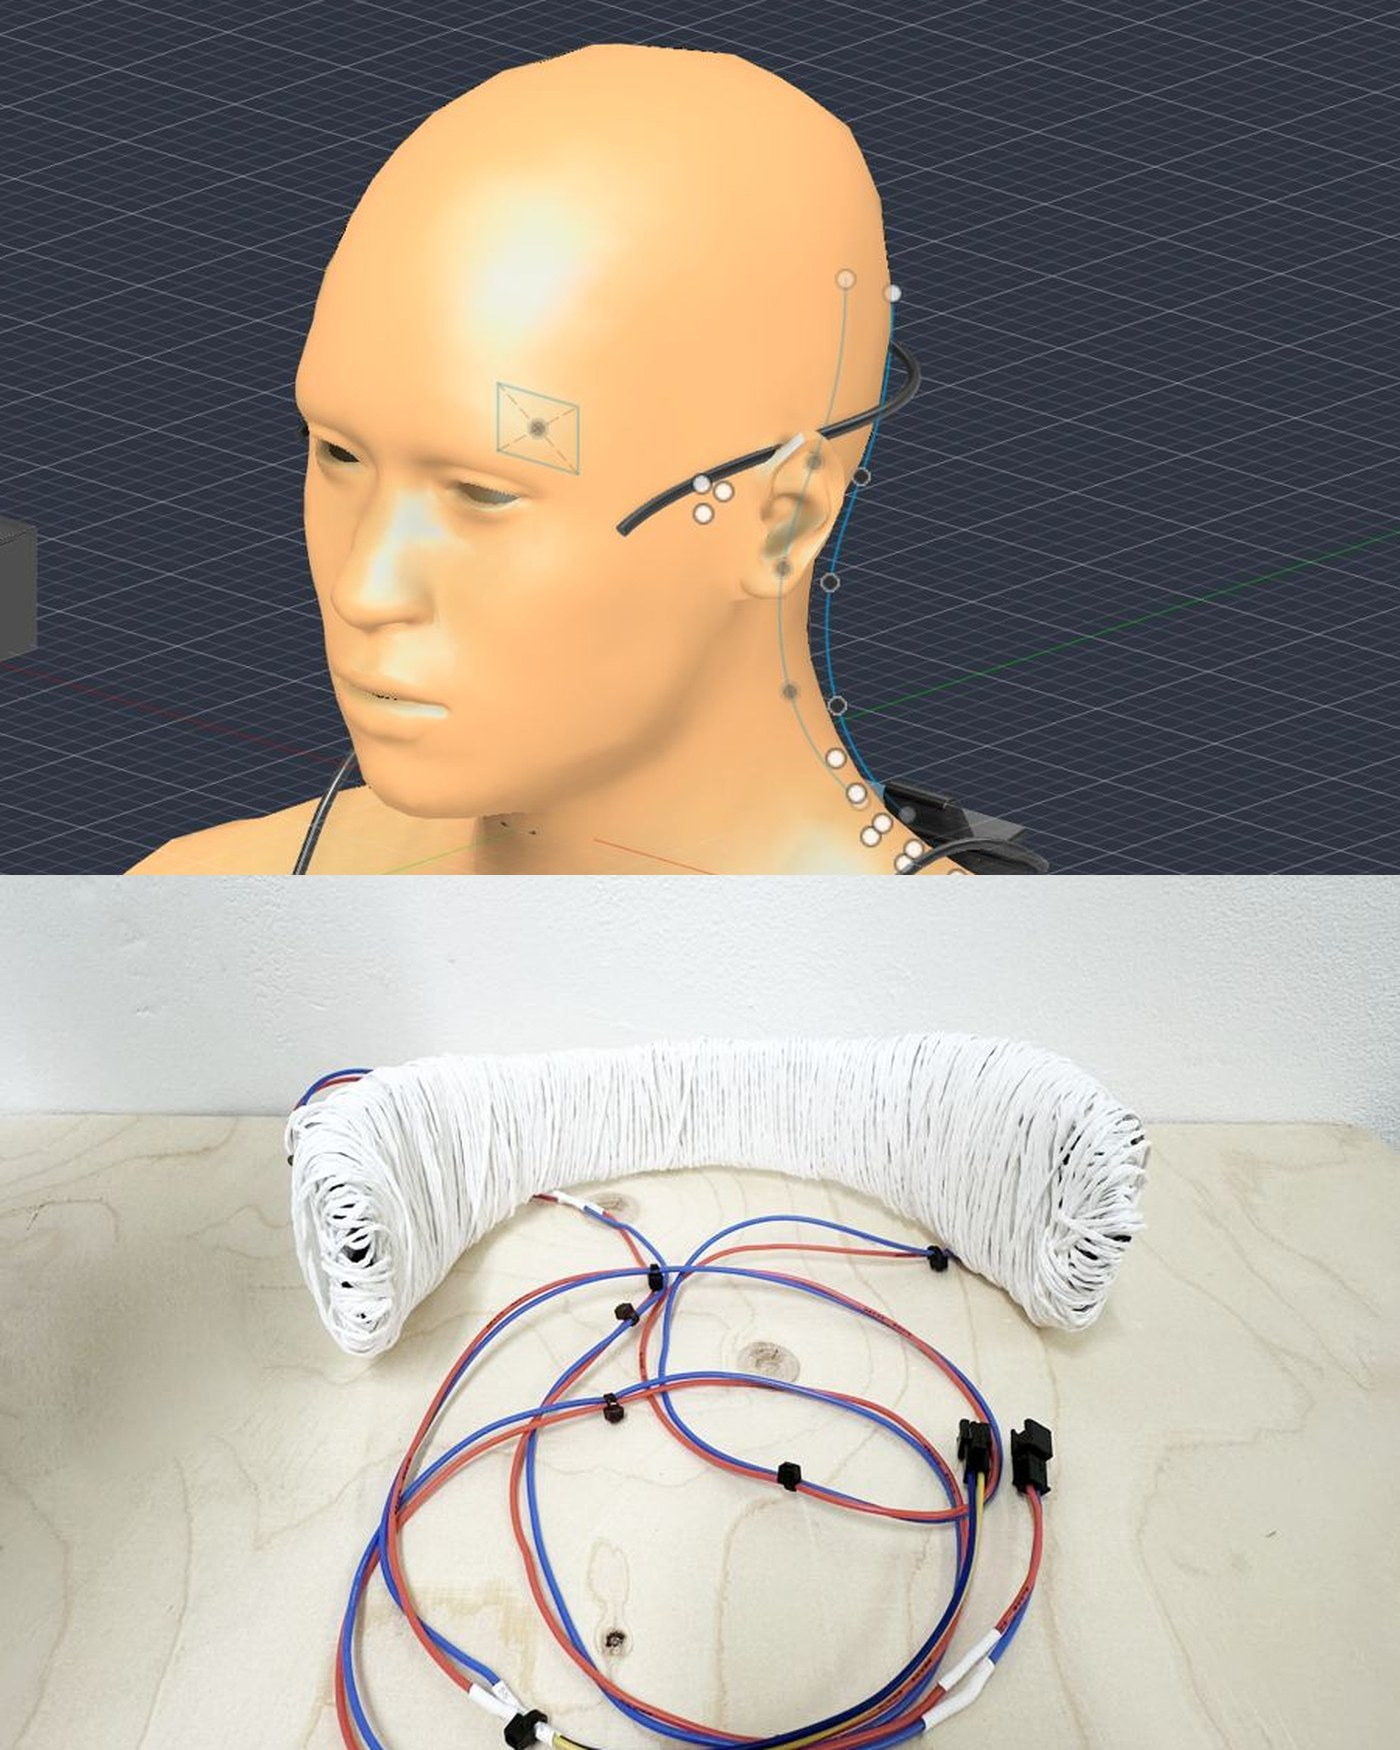
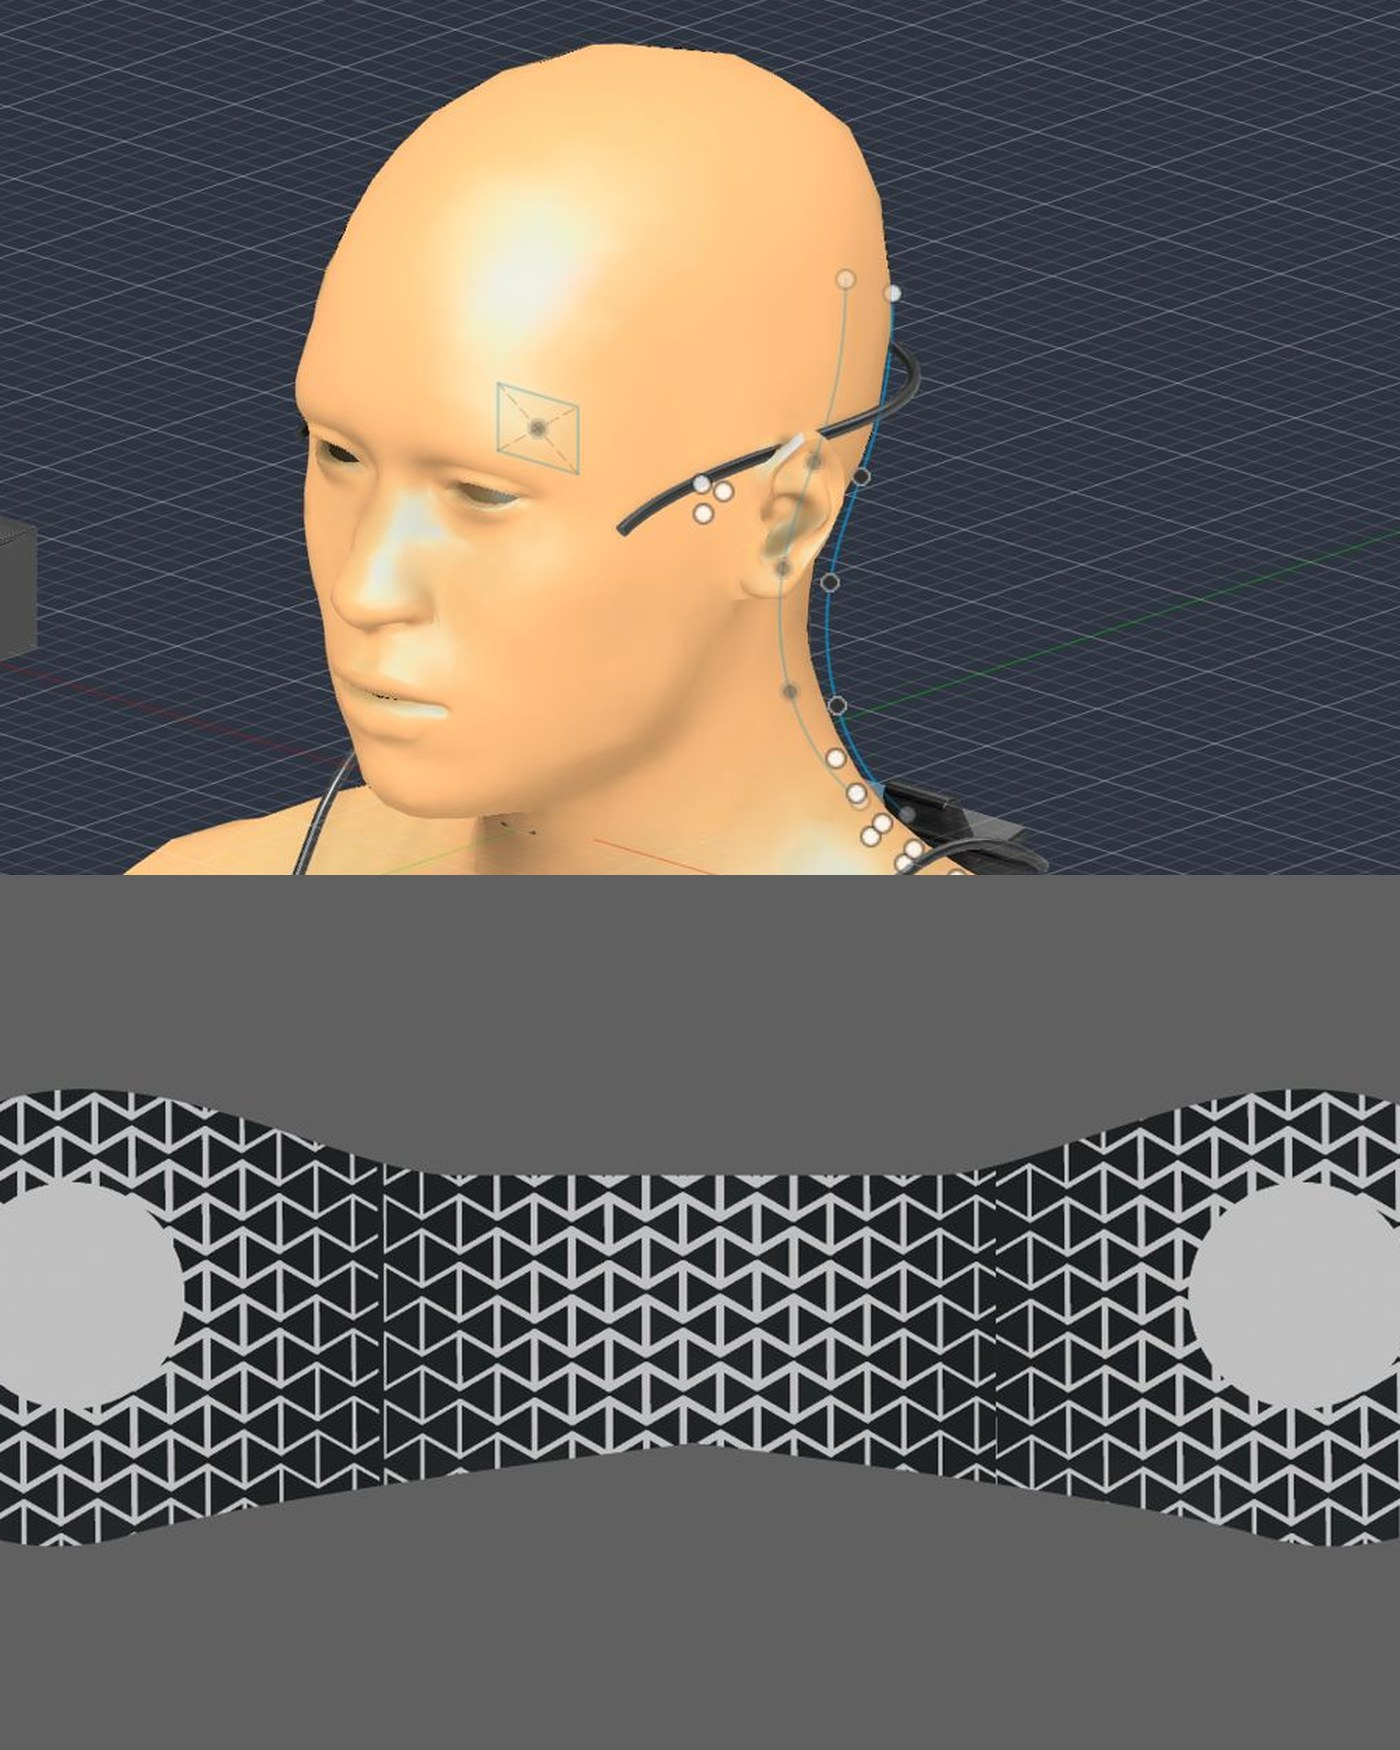
Making figure: collar lattice below the headband
Claude-Session: https://claude.ai/code/session_01QBrxeS5ufd9bAaQntXsWgD

diff --git a/solo-choir.html b/solo-choir.html
@@ -136,8 +136,8 @@
           </div>
         </div>
         <div class="block__media">
-          <span class="media media--tall"><img src="media/sc-making.jpg" alt="Top: the headband modelled in Fusion 360 on a head model. Below: the finished paper-fibre exciter collar with its wiring" loading="lazy" /></span>
-          <p class="figcap">headband modelled in Fusion 360 (top) · the paper-fibre exciter collar (below)</p>
+          <span class="media media--tall"><img src="media/sc-making.jpg" alt="Top: the headband modelled in Fusion 360 on a head model. Below: the auxetic lattice cut of the collar, with a solid disc at each end for the exciters" loading="lazy" /></span>
+          <p class="figcap">headband modelled in Fusion 360 (top) · the auxetic lattice of the collar (below)</p>
         </div>
       </div>
 
